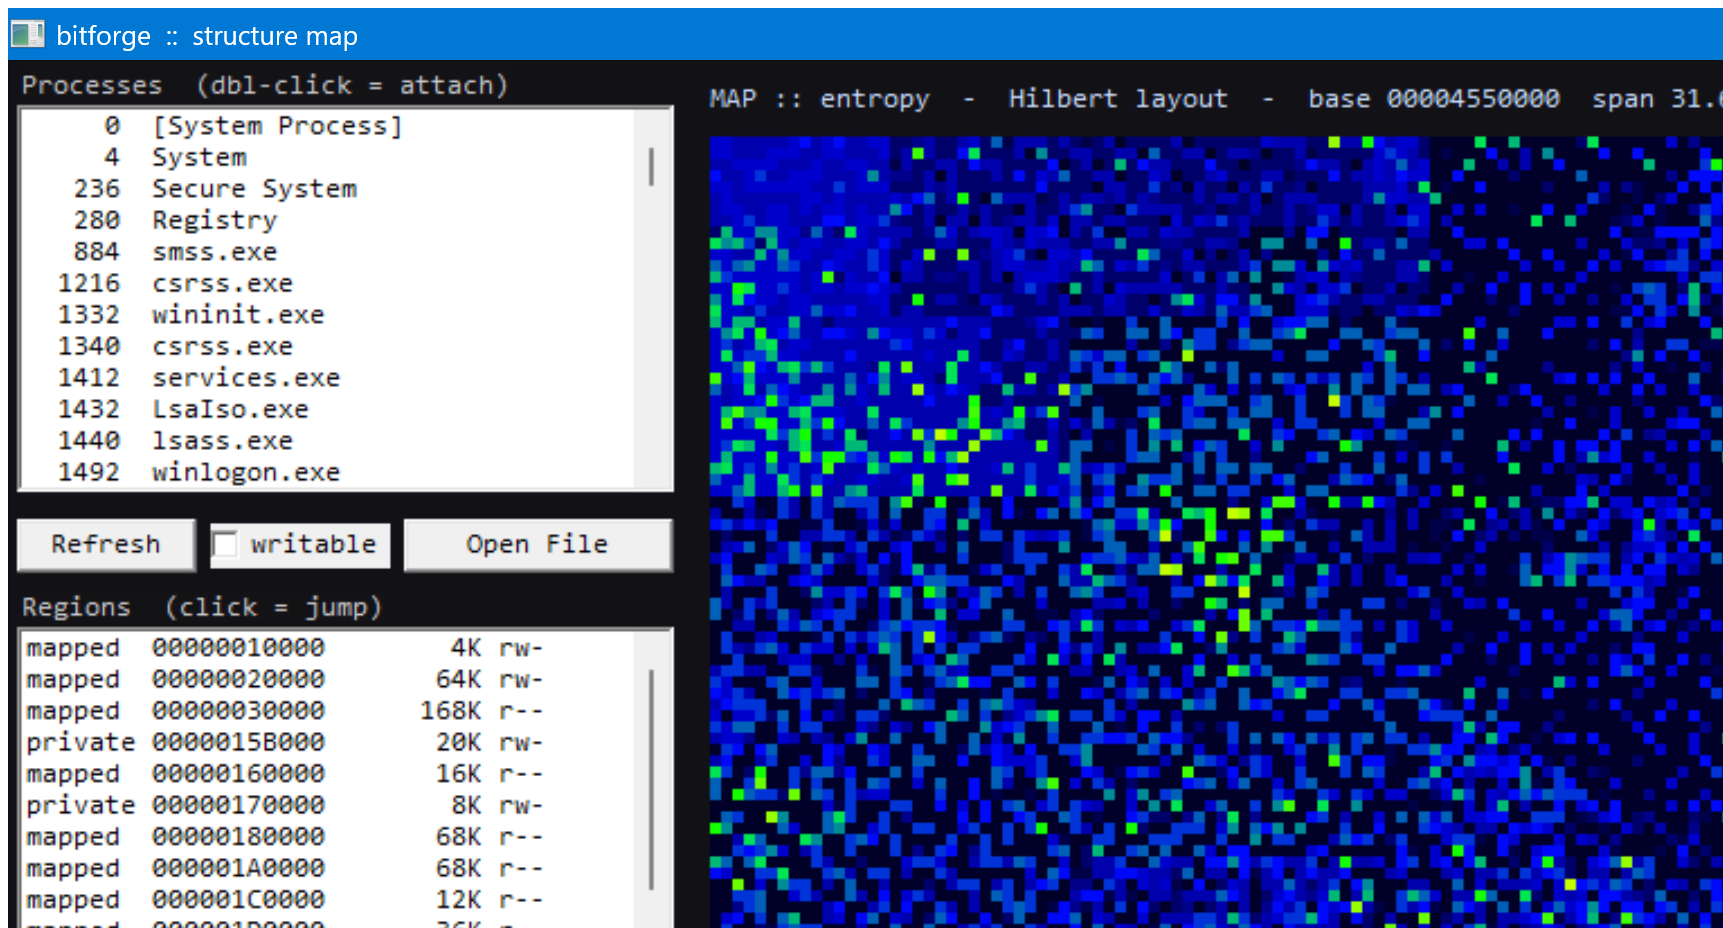
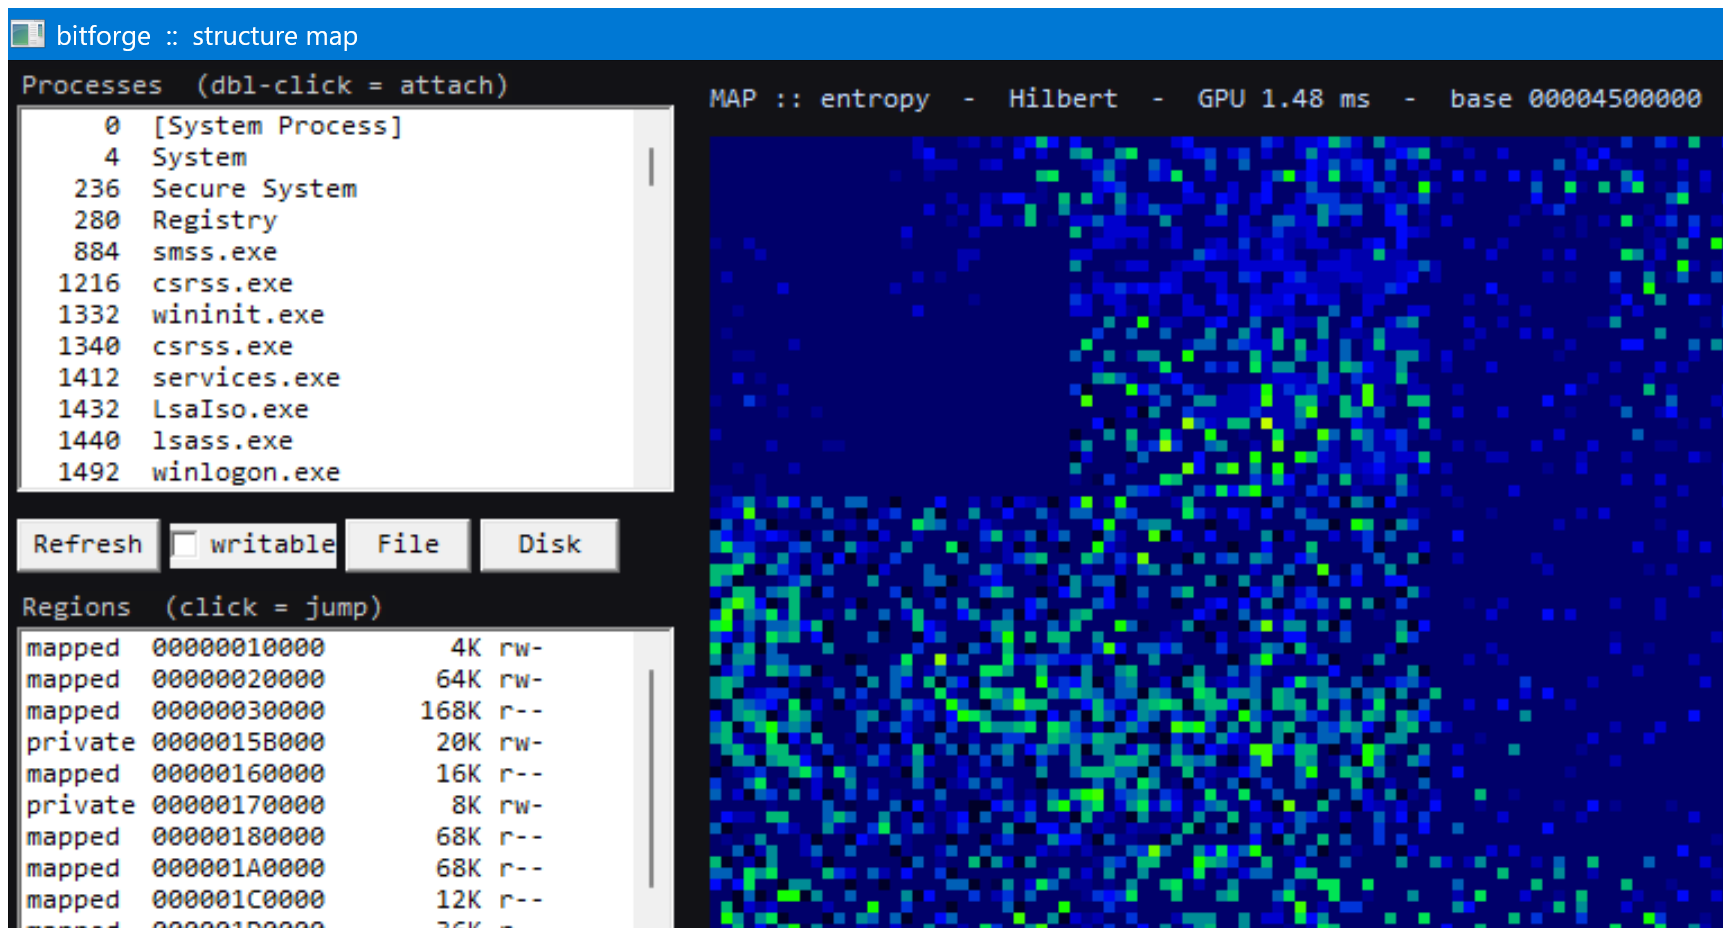
GPU: CUDA analytics island (bit-search / value-scan / entropy)
Offloads the embarrassingly-parallel compute to CUDA (gpu/gpu_bitforge.cu): on an
RTX 4070 Ti SUPER the unaligned 32-bit bit-search runs 24x faster than 1-thread
CPU (139 vs 3348 ms over 16 MB) and the entropy map ~60x. Wires it into the tool:
gpu.h interface, build.bat links CUDA when nvcc is present (and copies the runtime
DLL next to the exe), CLI gains gpu/gpuscan, and the GUI structure map computes its
entropy on the GPU (header shows GPU x.xx ms). Falls back to CPU when CUDA absent.

diff --git a/gui/bitforge_gui.cpp b/gui/bitforge_gui.cpp
@@ -21,6 +21,7 @@
 #include "buffer_source.h"
 #include "arecibo.h"
 #include "alien.h"
+#include "gpu.h"
 #include <memory>
 #include <vector>
 #include <string>
@@ -378,7 +379,8 @@ static void exit_hunt(){ g_hunt=false; if(g_src) refresh_regions(); InvalidateRe
 // Render a whole region as a 2-D map where each cell is a block of bytes coloured by
 // local Shannon entropy, laid out along a Hilbert curve so nearby offsets stay spatially
 // adjacent (structure blooms into blobs). Click a cell to drill down into its bits.
-static bool     g_mapHilbert=true;
+static bool     g_mapHilbert=true, g_mapGpu=false;
+static double   g_mapMs=0;
 static const int MAP_N=128;
 static uint64_t g_mapBase=0, g_mapSpan=0, g_mapBlock=1;
 static std::vector<uint8_t> g_mapEnt;
@@ -405,9 +407,19 @@ static void enter_map(){
     g_mapBase=reg.base; g_mapSpan=reg.size;
     int cells=MAP_N*MAP_N; g_mapBlock=g_mapSpan/(uint64_t)cells; if(g_mapBlock<1) g_mapBlock=1;
     g_mapEnt.assign(cells,0);
-    size_t S=(size_t)(g_mapBlock<512?g_mapBlock:512); if(S<1)S=1;
-    std::vector<uint8_t> sb(S);
-    for(int i=0;i<cells;i++){ uint64_t a=g_mapBase+(uint64_t)i*g_mapBlock; size_t got=g_src->read(a,sb.data(),S); g_mapEnt[i]=buf_entropy(sb.data(),got); }
+    int sample=(int)(g_mapBlock<512?g_mapBlock:512); if(sample<1) sample=1;
+    g_mapGpu=false; g_mapMs=0;
+#ifdef BITFORGE_CUDA
+    if(bf_gpu_present() && g_mapSpan>0 && g_mapSpan<=(256ull<<20)){   // upload+entropy on GPU for in-memory spans
+        std::vector<uint8_t> whole((size_t)g_mapSpan,0);
+        size_t got=g_src->read(g_mapBase, whole.data(), (size_t)g_mapSpan);
+        if(got>0){ bf_gpu_entropy(whole.data(),(unsigned long long)got,g_mapBlock,cells,sample,g_mapEnt.data(),&g_mapMs); g_mapGpu=true; }
+    }
+#endif
+    if(!g_mapGpu){                                                   // CPU sampled path (also for huge disks)
+        std::vector<uint8_t> sb((size_t)sample);
+        for(int i=0;i<cells;i++){ uint64_t a=g_mapBase+(uint64_t)i*g_mapBlock; size_t got=g_src->read(a,sb.data(),(size_t)sample); g_mapEnt[i]=buf_entropy(sb.data(),got); }
+    }
     g_map=true; g_hunt=false; SetWindowTextA(g_main,"bitforge  ::  structure map");
 }
 static void exit_map(){ g_map=false; if(g_src) refresh_regions(); InvalidateRect(g_main,nullptr,FALSE); }
@@ -417,9 +429,13 @@ static void map_render(HDC mem,int gw,int gh){
     int ox,oy,cell; map_geo(gw,gh,ox,oy,cell); int px=cell*MAP_N;
     for(int d=0;d<MAP_N*MAP_N;d++){ int x,y; if(g_mapHilbert) hilbert_d2xy(MAP_N,(uint32_t)d,x,y); else { x=d%MAP_N; y=d/MAP_N; }
         int v=g_mapEnt[d]; RECT r={ox+x*cell,oy+y*cell,ox+x*cell+cell,oy+y*cell+cell}; FillRect(mem,&r,g_ramp[v*24/256]); }
-    char t[200]; SetTextColor(mem,RGB(200,220,255));
-    snprintf(t,sizeof(t),"MAP :: entropy  -  %s layout  -  base %011llX  span %.2f MB  block %llu B",
-        g_mapHilbert?"Hilbert":"linear",(unsigned long long)g_mapBase,g_mapSpan/1048576.0,(unsigned long long)g_mapBlock);
+    char t[220]; SetTextColor(mem,RGB(200,220,255));
+    if(g_mapGpu)
+        snprintf(t,sizeof(t),"MAP :: entropy  -  %s  -  GPU %.2f ms  -  base %011llX  span %.2f MB  block %llu B",
+            g_mapHilbert?"Hilbert":"linear",g_mapMs,(unsigned long long)g_mapBase,g_mapSpan/1048576.0,(unsigned long long)g_mapBlock);
+    else
+        snprintf(t,sizeof(t),"MAP :: entropy  -  %s  -  CPU  -  base %011llX  span %.2f MB  block %llu B",
+            g_mapHilbert?"Hilbert":"linear",(unsigned long long)g_mapBase,g_mapSpan/1048576.0,(unsigned long long)g_mapBlock);
     TextOutA(mem,8,6,t,(int)strlen(t));
     SetTextColor(mem,RGB(140,150,170));
     { const char* s="[H] Hilbert/linear     click a cell to drill into its bits     [Esc] exit"; TextOutA(mem,ox,oy+px+8,s,(int)strlen(s)); }

diff --git a/core/gpu.h b/core/gpu.h
@@ -1,0 +1,26 @@
+// bitforge - gpu.h
+// C++ interface to the CUDA analytics island (core/../gpu/gpu_bitforge.cu).
+// Compiled in only when the build links CUDA (BITFORGE_CUDA); otherwise the
+// helpers degrade to "not present" and callers fall back to the CPU paths.
+#pragma once
+
+#ifdef BITFORGE_CUDA
+extern "C" {
+    int         bf_gpu_init();          // number of CUDA devices (0 = none)
+    const char* bf_gpu_name();
+    long long   bf_gpu_bitsearch(const unsigned char* data, unsigned long long n,
+                                 unsigned long long pat, unsigned long long mask, int nbits,
+                                 unsigned long long* hits, int maxhits,
+                                 double* ms_kernel, double* ms_total);
+    long long   bf_gpu_valuescan(const unsigned char* data, unsigned long long n,
+                                 unsigned long long target, int width,
+                                 unsigned long long* hits, int maxhits, double* ms_kernel);
+    void        bf_gpu_entropy(const unsigned char* data, unsigned long long n,
+                               unsigned long long block, int cells, int sample,
+                               unsigned char* out, double* ms_kernel);
+}
+inline bool bf_gpu_present(){ return bf_gpu_init() > 0; }
+#else
+inline bool        bf_gpu_present(){ return false; }
+inline const char* bf_gpu_name(){ return "CPU only (built without CUDA)"; }
+#endif

diff --git a/cli/bitforge_cli.cpp b/cli/bitforge_cli.cpp
@@ -9,6 +9,7 @@
 #include "process_source.h"
 #include "disk_source.h"
 #include "scanner.h"
+#include "gpu.h"
 #include <cstdio>
 #include <cstdlib>
 #include <cstring>
@@ -75,7 +76,9 @@ static int usage(){
            "  dset    <index> <hexaddr> <type> <value>\n"
            "  dpoke   <index> <hexaddr> <bit0-7> <0|1>\n"
            "  iread   <image> <hexaddr> <n>       (raw disk image file)\n"
-           "  ipoke   <image> <hexaddr> <bit0-7> <0|1>\n");
+           "  ipoke   <image> <hexaddr> <bit0-7> <0|1>\n"
+           "  gpu\n"
+           "  gpuscan <file> <bitpattern>          (GPU unaligned bit search)\n");
     return 1;
 }
 
@@ -181,6 +184,22 @@ int main(int argc, char** argv){
         printf("before: "); hexdump(ds,addr,1);
         bool ok=write_bit(ds,addr,bit,val); printf("write_bit -> %s\n", ok?"ok":"FAIL");
         printf("after:  "); hexdump(ds,addr,1); return 0;
+    }
+    // ---- GPU (CUDA analytics island) ----
+    if (cmd=="gpu"){ printf("%s\n", bf_gpu_name()); return 0; }
+    if (cmd=="gpuscan" && argc>=4){
+        if(!bf_gpu_present()){ printf("no GPU (built without CUDA, or no device)\n"); return 1; }
+#ifdef BITFORGE_CUDA
+        FileSource fs; if(!fs.open(argv[2],false)){ printf("open failed\n"); return 1; }
+        uint64_t n=fs.size(); if(n==0){ printf("empty file\n"); return 1; }
+        std::vector<uint8_t> buf((size_t)n); fs.read(0,buf.data(),(size_t)n);
+        uint64_t pat,mask; int nbits; if(!Scanner::parse_binary(argv[3],pat,mask,nbits)){ printf("bad bit pattern\n"); return 1; }
+        unsigned long long hits[64]; double km=0,kt=0;
+        long long c=bf_gpu_bitsearch(buf.data(),n,pat&mask,mask,nbits,hits,64,&km,&kt);
+        printf("GPU bit-search '%s' over %.1f MB: %lld hits  (kernel %.2f ms, total %.2f ms)\n",argv[3],n/1048576.0,c,km,kt);
+        int show=(int)(c<10?c:10); for(int i=0;i<show;++i) printf("  bit 0x%llX = byte 0x%llX .b%llu\n",hits[i],hits[i]>>3,hits[i]&7);
+#endif
+        return 0;
     }
     return usage();
 }

diff --git a/README.md b/README.md
@@ -87,6 +87,29 @@ first (Windows guards mounted-volume sectors). Raw `\\.\PhysicalDriveN` access n
 `Mount-DiskImage`) so you never risk a real disk. `DiskSource::open_image` also opens a raw
 image file directly (no admin) through the same code path.
 
+## GPU acceleration (CUDA)
+
+The heavy compute — unaligned bit-search, value scan, per-block entropy — is the
+embarrassingly-parallel part, so it's offloaded to the GPU (`gpu/gpu_bitforge.cu`). Measured
+on a **GeForce RTX 4070 Ti SUPER**:
+
+| workload | GPU | CPU (1 thread) | speedup |
+|---|---|---|---|
+| unaligned 32-bit search, 16 MB (134M bit offsets) | 139 ms | 3348 ms | **24×** |
+| entropy map 128×128, 128 MB | 0.66 ms | 39 ms | **~60×** |
+| value scan u32, 128 MB | 0.71 ms | — | — |
+
+`build.bat` links CUDA automatically when `nvcc` is present (and copies the runtime DLL next
+to the exe so it's self-contained); without it, everything falls back to the CPU paths. The
+**structure map** computes its entropy on the GPU for in-memory spans (the header shows
+`GPU x.xx ms`), and the CLI exposes `gpu` / `gpuscan`:
+
+```
+build_gpu.bat                                    # standalone CPU-vs-GPU benchmark
+build\bitforge_cli.exe gpu                       # show the CUDA device
+build\bitforge_cli.exe gpuscan file.bin 1011?01  # GPU unaligned bit search
+```
+
 ## Build
 
 **One shot (MSVC):**
@@ -159,12 +182,11 @@ forensics on targets you own — not for defeating anti-cheat or DRM.
 
 ## Roadmap
 
-- **GPU stage** — upload a region snapshot to VRAM, compute popcount-density / entropy /
-  unaligned-bit search in a compute shader, and render a continuous-LOD zoom (whole
-  region → single bit). CUDA interop for the analytics island.
-- **More sources** — `PhysicalDrive` (sector-aligned disk), VHDX, a kernel-driver
-  `PhysicalMemory` source, and a PCILeech/DMA source, all behind `IByteSource`.
-- **Space-filling (Hilbert) layout** and a defrag-style region overview map.
+- **GPU rendering** — the analytics already run on CUDA (see above); next is moving the
+  *rendering* onto the GPU (CUDA↔GL interop) for a smooth continuous-LOD zoom, whole region
+  → single bit, instead of today's discrete Map→grid drill-down.
+- **Deepest sources** — a kernel-driver `PhysicalMemory` source and a PCILeech/DMA source,
+  behind the same `IByteSource`.
 
 ## Credits
 